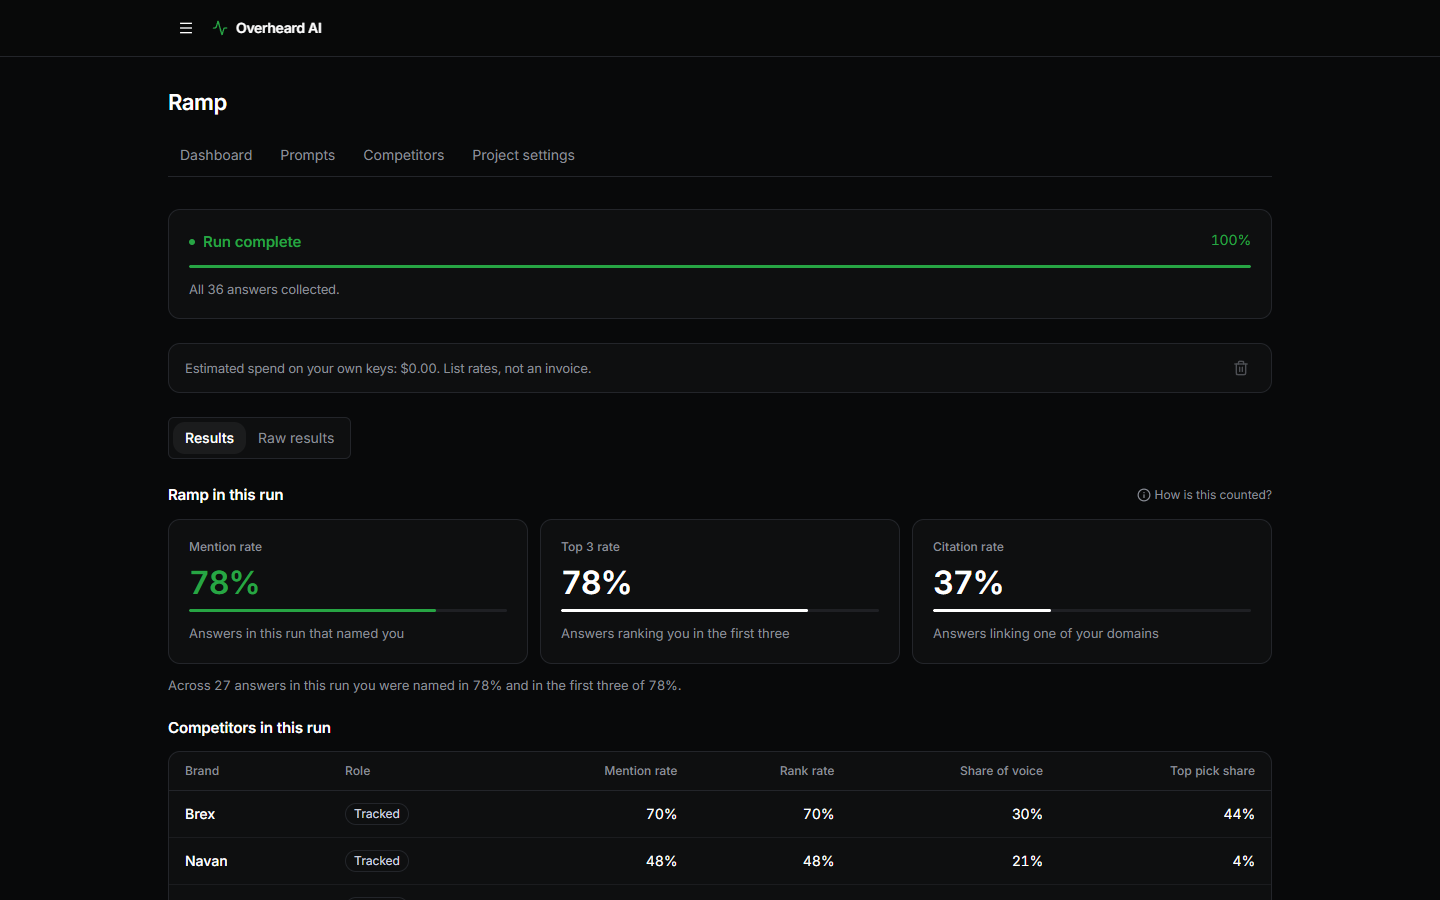
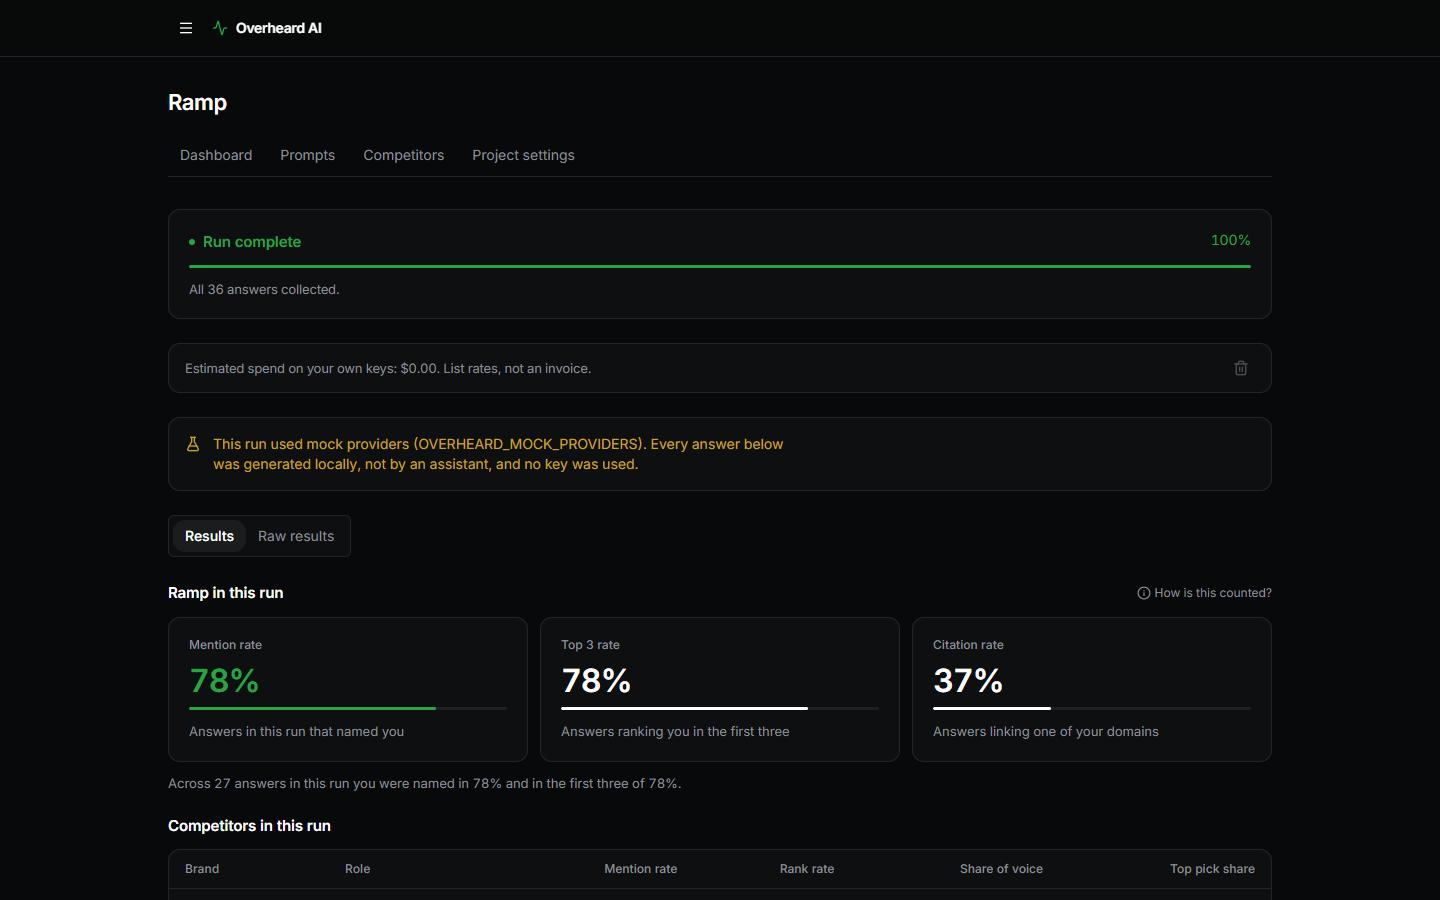
Retake the README screenshots for the assistant dropdowns and the fixed demo order

diff --git a/docs/screenshots/README.md b/docs/screenshots/README.md
@@ -11,8 +11,8 @@ it is dark, so there is no light version of these.
 | `00-banner.png` | `/projects/:id`, demo project | A 1144x447 crop of the dashboard's Visibility over time card: mention, top 3 and citation rates across the demo's 26 weekly runs. It names no company. |
 | `02-run.png` | `/projects/:id/runs/:runId`, demo project | The demo's newest weekly run, finished: all 36 answers collected, estimated spend on your own keys, and the Results tab with Ramp's rates in this run above the competitor table. |
 | `03-dashboard.png` | `/projects/:id`, demo project | The dashboard scrolled to its three rate cards, with the six-month trend and the head-to-head with Brex below them. |
-| `04-prompts.png` | `/projects/:id/prompts`, demo project | The Runner, locked because the demo is browse-only and no key is set, with its plan line and estimated cost, above the new prompt form. |
-| `05-competitors.png` | `/projects/:id/competitors`, demo project | Add a competitor, and the tracked competitor cards for Navan and Mercury with their rates, name variants and domains. |
+| `04-prompts.png` | `/projects/:id/prompts`, demo project | The Runner, locked because the demo is browse-only, with one assistant dropdown per provider and its plan line and estimated cost, above the new prompt form. |
+| `05-competitors.png` | `/projects/:id/competitors`, demo project | Add a competitor, and the tracked competitor cards for Brex and Navan with their rates, name variants and domains. |
 
 ## Real names
 

diff --git a/README.md b/README.md
@@ -88,7 +88,7 @@ PL/pgSQL, run inside an embedded Postgres.
 | --- | --- |
 | ![Demo project dashboard: Ramp's mention, top 3 and citation rate cards, the six-month trend, and the head-to-head with Brex](docs/screenshots/03-dashboard.png) | ![The demo's newest weekly run, finished: all 36 answers collected, spend on your own keys at zero, Ramp's rates in this run, and the competitor table](docs/screenshots/02-run.png) |
 | **Competitors** | **Prompts and the Runner** |
-| ![Demo competitors: add a competitor, and the tracked cards for Navan and Mercury with their mention, top 3 and citation rates, name variants and domains](docs/screenshots/05-competitors.png) | ![Demo Prompts tab: the Runner, locked on the browse-only demo, with its plan line of 36 answers and 72 provider calls at an estimated cost, above the new prompt form](docs/screenshots/04-prompts.png) |
+| ![Demo competitors: add a competitor, and the tracked cards for Brex and Navan with their mention, top 3 and citation rates, name variants and domains](docs/screenshots/05-competitors.png) | ![Demo Prompts tab: the Runner, locked on the browse-only demo, with one assistant dropdown per provider and its plan line of 36 answers and 72 provider calls at an estimated cost, above the new prompt form](docs/screenshots/04-prompts.png) |
 
 The screenshots show the built-in demo project. Its history is generated, so none of it is a
 measurement of Ramp or its competitors.
